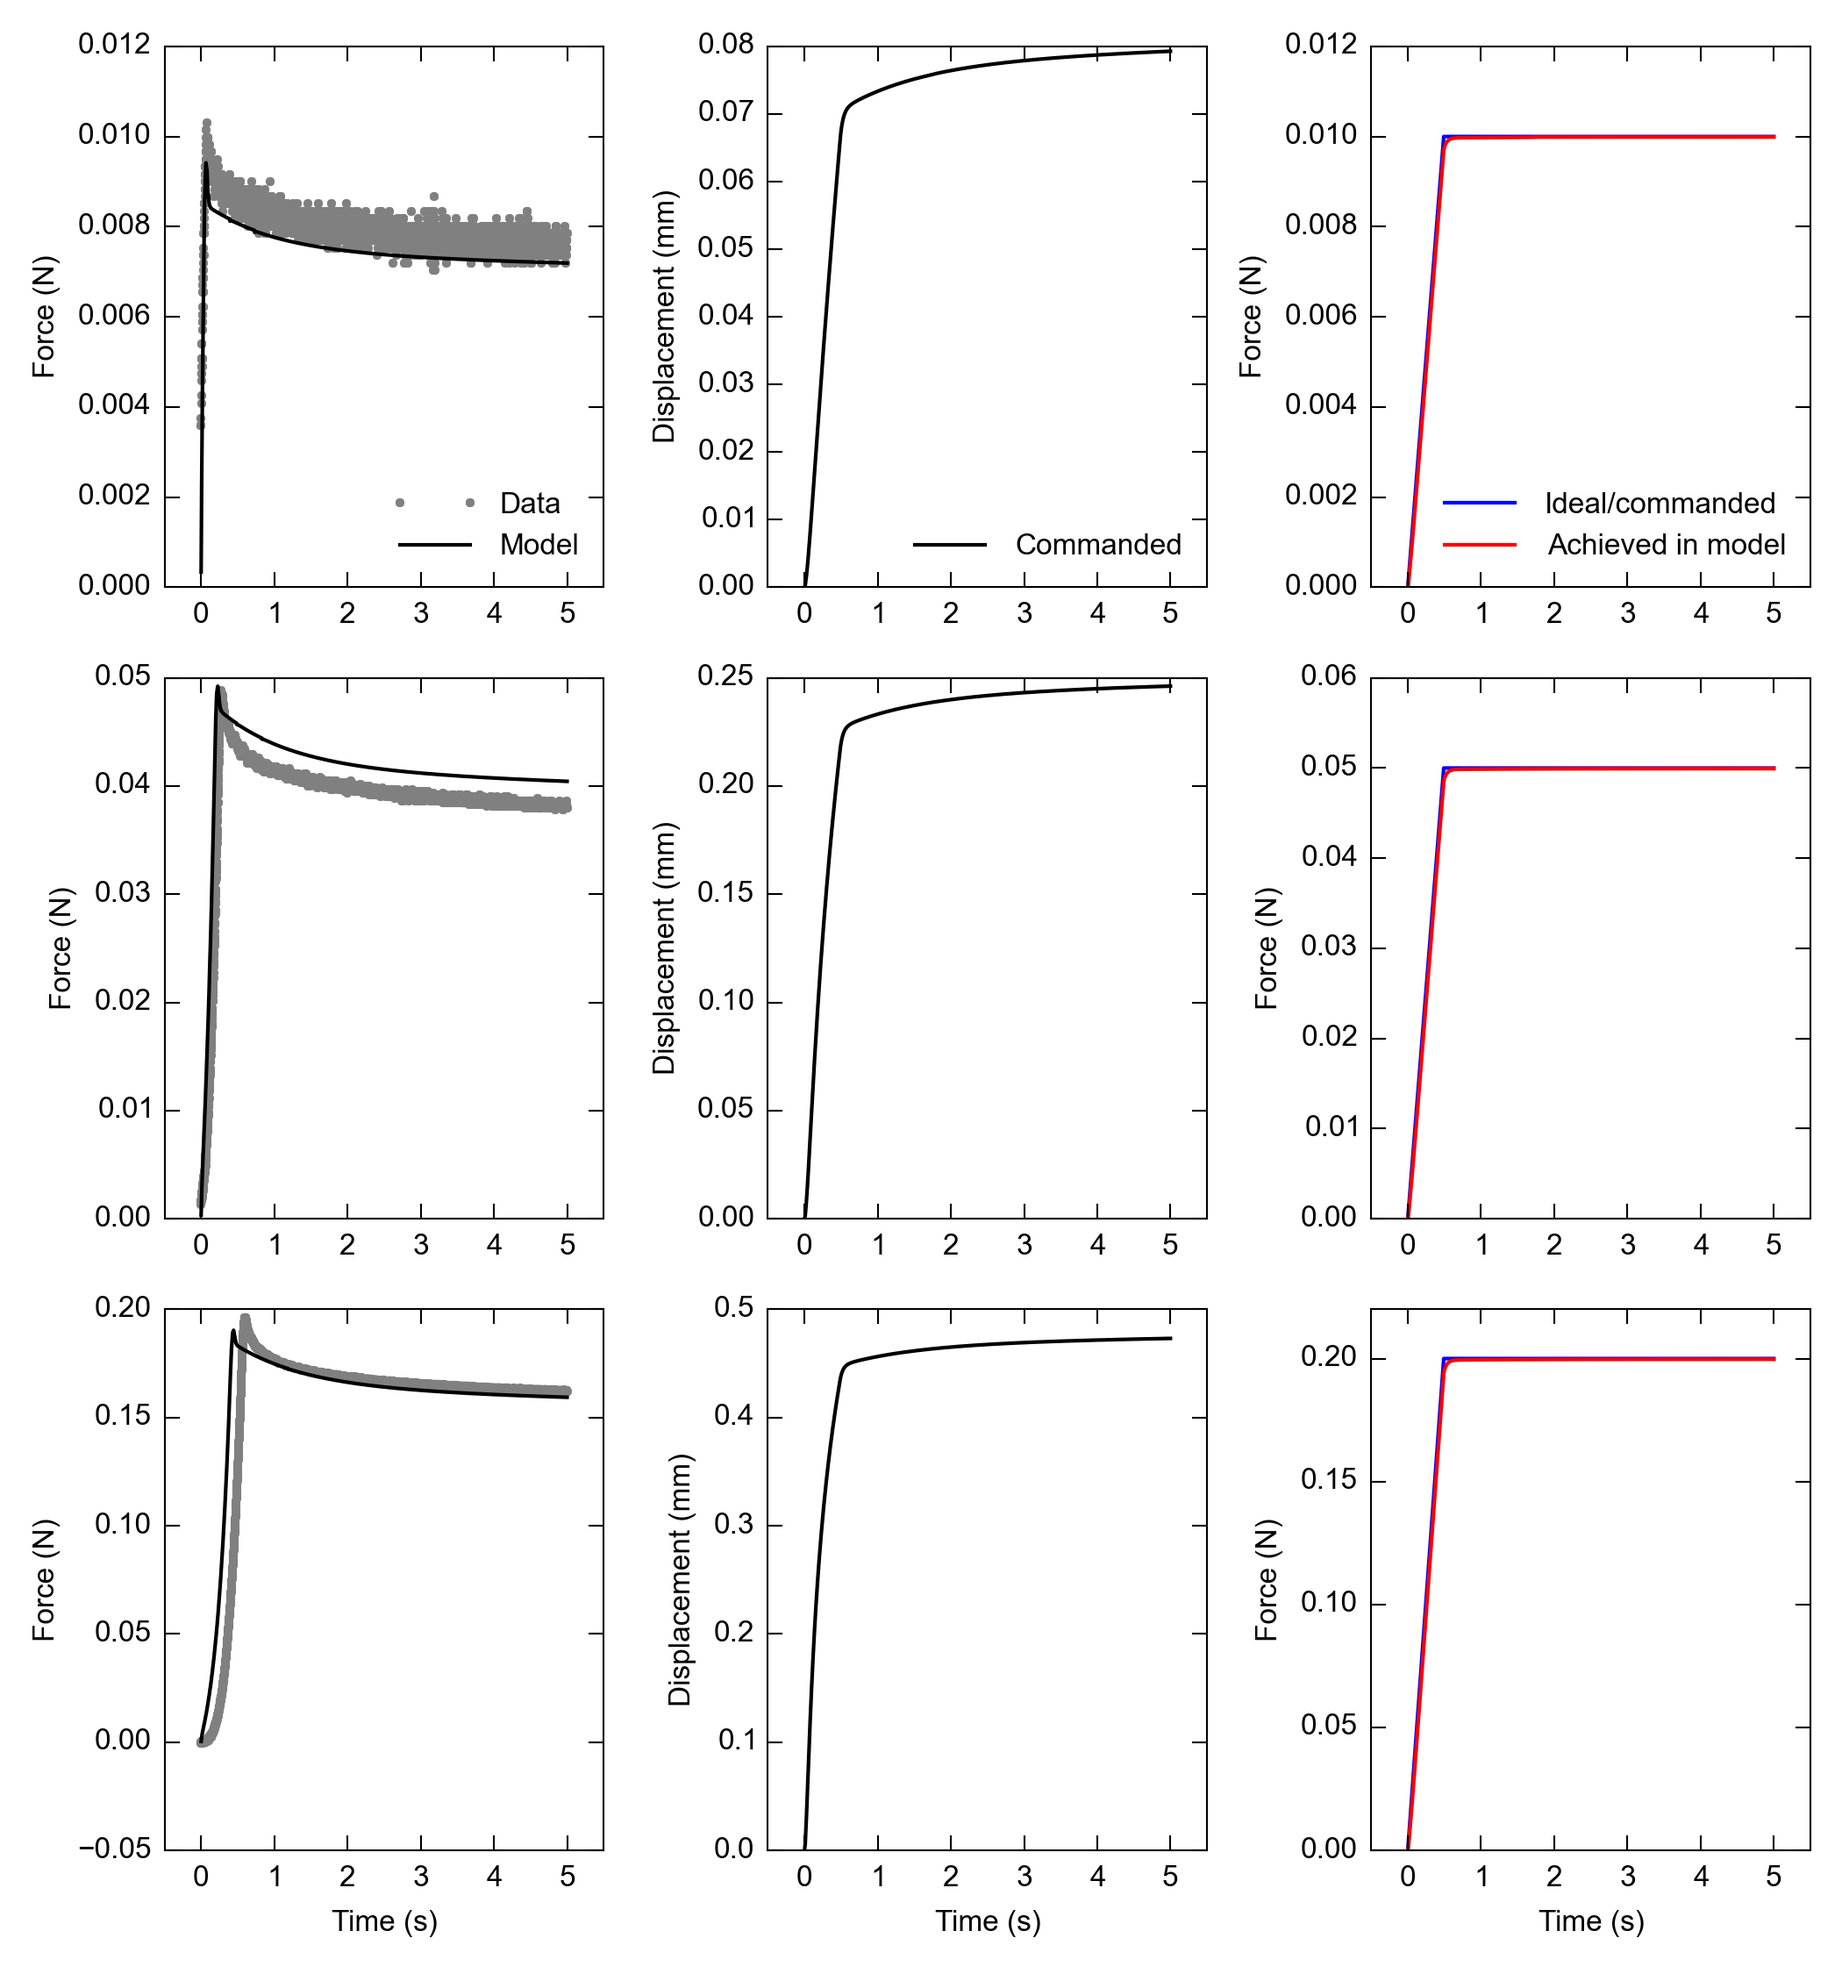
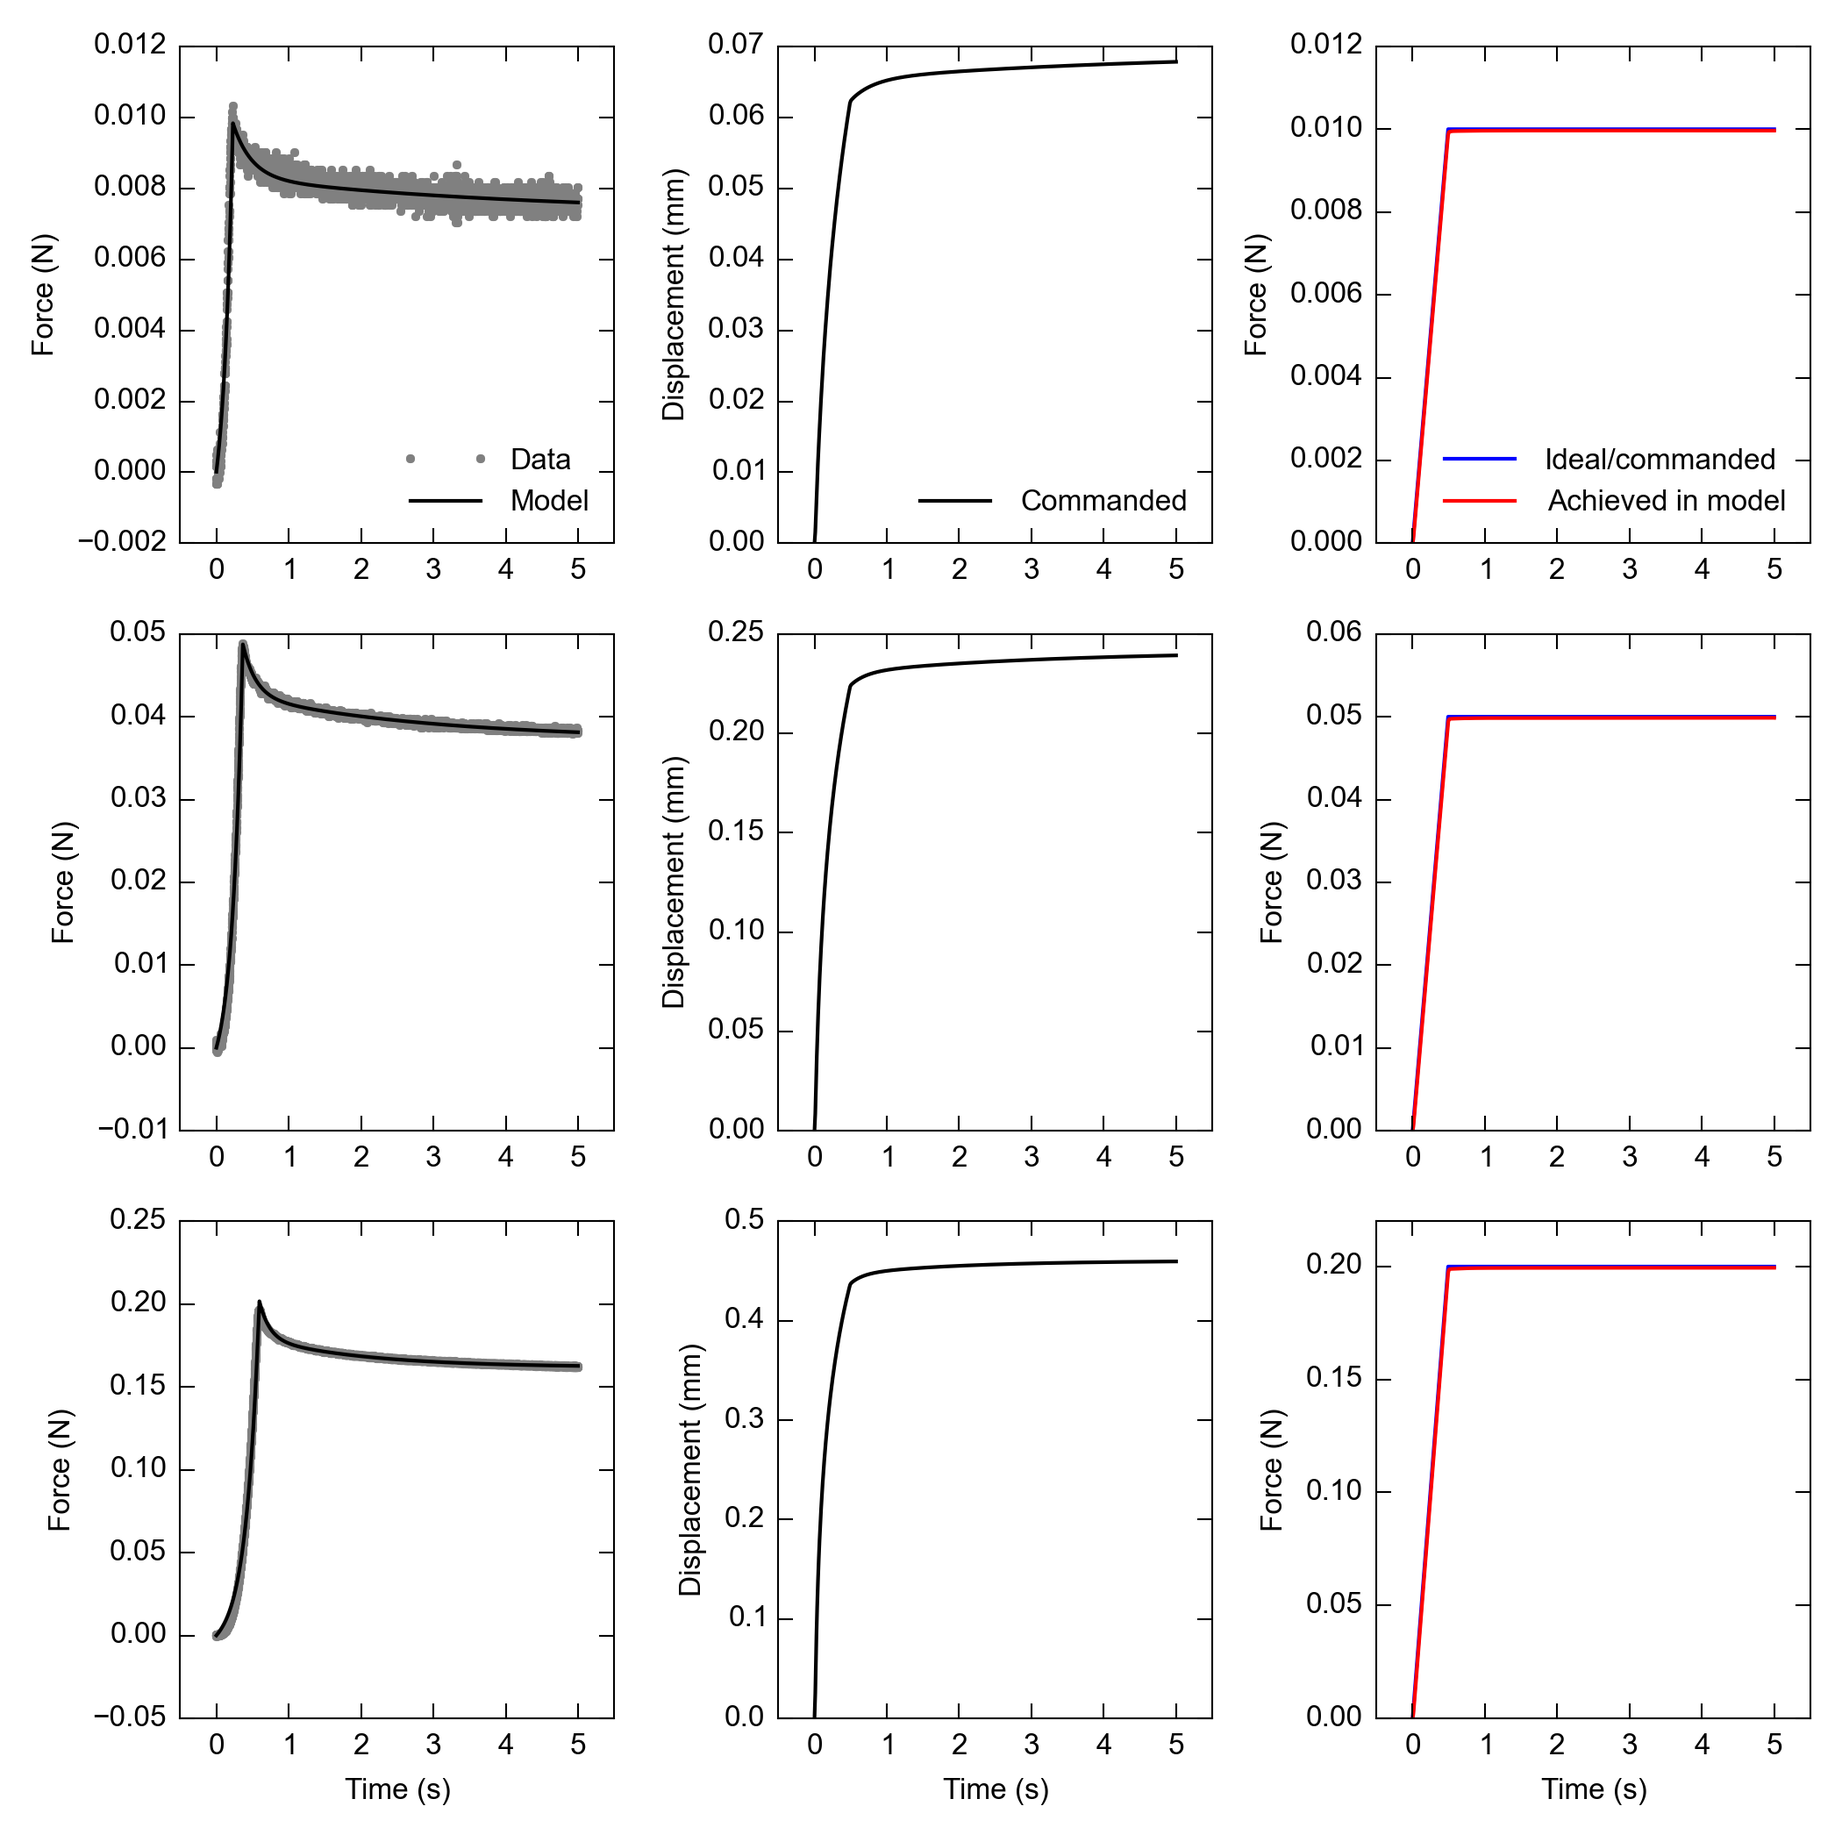
Fit to individual traces

diff --git a/fitprony.py b/fitprony.py
@@ -12,6 +12,8 @@ import matplotlib.pyplot as plt
 
 
 DT = 1E-3
+ND2F = 2
+FT = .002  # contact threshold
 
 
 def displ2force(params, displ):
@@ -34,16 +36,6 @@ def relax(params, time):
     return gr
 
 
-def creep(params, time, cinf):
-    c1, tau1, c2, tau2, c3, tau3 = params
-    cc = 1 + (1 -
-              c1 * np.exp(-time / tau1) -
-              c2 * np.exp(-time / tau2) -
-              c3 * np.exp(-time / tau3)
-              ) * (cinf - 1)
-    return cc
-
-
 def predict_force(params_d2f, params_rel, time, displ):
     force_elastic = displ2force(params_d2f, displ)
     gr = relax(params_rel, time)
@@ -51,38 +43,14 @@ def predict_force(params_d2f, params_rel, time, displ):
     return force
 
 
-def predict_displ(params_d2f, params_crp, time, force, cinf):
-    displ_elastic = force2displ(params_d2f, force)
-    cc = creep(params_crp, time, cinf)
-    displ = np.convolve(cc, np.gradient(displ_elastic) / DT)[:time.size] * DT
-    return displ
-
-
-def get_force_sse(params, time, displ, force):
-    params_d2f = params[:2]
-    params_rel = params[2:]
+def get_force_sse(fitx, time, displ, force, x0):
+    params = fitx * x0
+    params_d2f = params[:ND2F]
+    params_rel = params[ND2F:]
     force_predicted = predict_force(params_d2f, params_rel, time, displ)
-    sse = ((force - force_predicted) ** 2).sum()
+    residual = force - force_predicted
+    sse = ((residual / force.mean()) ** 2).sum()
     return sse
-
-
-def get_force_r2(params, time, displ, force):
-    params_d2f = params[:2]
-    params_rel = params[2:]
-    force_predicted = predict_force(params_d2f, params_rel, time, displ)
-    maxidx = force.argmax()
-    force_ramp = force[:maxidx]
-    force_hold = force[maxidx:]
-    force_predicted_ramp = force_predicted[:maxidx]
-    force_predicted_hold = force_predicted[maxidx:]
-    sst_ramp = ((force_ramp - force_ramp.mean()) ** 2).sum()
-    sse_ramp = ((force_ramp - force_predicted_ramp) ** 2).sum()
-    sst_hold = ((force_hold - force_hold.mean()) ** 2).sum()
-    sse_hold = ((force_hold - force_predicted_hold) ** 2).sum()
-    r2_ramp = 1 - sse_ramp / sst_ramp
-    r2_hold = 1 - sse_hold / sst_hold
-    r2 = np.mean((r2_ramp, r2_hold))
-    return r2
 
 
 if __name__ == '__main__':
@@ -93,34 +61,37 @@ if __name__ == '__main__':
         time = pd.read_csv('./data/%dmN_time.txt' % stimulus).values.T[0]
         displ = pd.read_csv('./data/%dmN_disp.txt' % stimulus).values.T[0]
         force = pd.read_csv('./data/%dmN_force.txt' % stimulus).values.T[0]
-        contact_idx = (displ > 0).nonzero()[0][0]
+        contact_idx = (force > FT).nonzero()[0][0] - 100
         time_list.append(time[contact_idx:contact_idx + 5000]
                          - time[contact_idx])
-        displ_list.append(displ[contact_idx:contact_idx + 5000])
         force_list.append(force[contact_idx:contact_idx + 5000])
+        # Make displacement curve
+        displ_static = displ[contact_idx + 2500]
+        maxidx = force_list[-1].argmax()
+        displ_new = np.empty_like(force_list[-1])
+        displ_new[:maxidx] = np.linspace(0, displ_static, maxidx)
+        displ_new[maxidx:] = displ_static
+        displ_list.append(displ_new)
     # %% Start fitting the force trances
-
-    def get_avg_force_r2(params, sign=1.):
-        r2_list = []
-        for i, displ in enumerate(displ_list):
-            force = force_list[i]
-            time = time_list[i]
-            r2_list.append(get_force_r2(params, time, displ, force))
-        avg_r2 = np.mean(r2_list)
-        return sign * avg_r2
-    bounds = ((0, None), (0, None),
-              (0, 1), (1e-2, None),
-              (0, 1), (1e-2, None),
-              (0, 1), (1e-2, None))
-    constraints = ({'type': 'ineq', 'fun': lambda x: 1 - np.sum(x[2::2])})
-    x0 = (1e-2, 5, .3, .1, .3, 1, .3, 10)
-    res = minimize(get_avg_force_r2, x0, args=(-1), method='SLSQP',
-                   bounds=bounds, constraints=constraints)
-    params = res.x
-    avg_r2 = -res.fun
-    params_rel = params[2:]
-    params_d2f = params[:2]
-    ginf = 1 - np.sum(params_rel[::2])
+    params_list, params_d2f_list, params_rel_list = [], [], []
+    for i, stimulus in enumerate(stimuli_list):
+        force = force_list[i]
+        displ = displ_list[i]
+        time = time_list[i]
+        bounds = ((0, None), (0, None),
+                  (0, 1), (DT, None),
+                  (0, 1), (DT, None),
+                  (0, 1), (DT, None))
+        constraints = ({'type': 'ineq',
+                        'fun': lambda x: 1 - np.sum(x[ND2F::2])})
+        x0 = np.array([.01, 7, .3, .001, .3, .5, .3, 10])
+        res = minimize(get_force_sse, np.ones(8),
+                       args=(time, displ, force, x0),
+                       method='SLSQP', bounds=bounds, constraints=constraints)
+        params = res.x * x0
+        params_list.append(params)
+        params_rel_list.append(params[ND2F:])
+        params_d2f_list.append(params[:ND2F])
     # %% Find point by point
     resolution = 1e-2
     ramp_time = .5
@@ -129,6 +100,8 @@ if __name__ == '__main__':
     time = np.arange(500) * resolution
     fine_time = np.arange(5000) * DT
     for i, stimulus in enumerate(stimuli_list):
+        params_d2f = params_d2f_list[i]
+        params_rel = params_rel_list[i]
         force_cmd = np.empty_like(time)
         force_cmd[:maxidx] = np.linspace(0, stimulus * 1e-3, maxidx)
         force_cmd[maxidx:] = stimulus * 1e-3
@@ -145,19 +118,22 @@ if __name__ == '__main__':
                 sse = ((current_force - predicted_force) ** 2).sum()
                 return sse
             d0 = force2displ(params_d2f, stimulus * 1e-3)
-            d = minimize(get_current_sse, d0, method='L-BFGS-B').x
+            d = minimize(get_current_sse, d0, method='L-BFGS-B',
+                         bounds=((0, None), )).x
             displ[idx + 1] = d
         displ_cmd_list.append(np.interp(fine_time, time, displ))
         force_cmd_list.append(np.interp(fine_time, time, force_cmd))
         force_model_list.append(predict_force(params_d2f, params_rel,
                                               fine_time, displ_cmd_list[-1]))
     # %% Plot the fitting
-    fig, axs = plt.subplots(3, 3, figsize=(7, 7.5))
+    fig, axs = plt.subplots(3, 3, figsize=(7, 7))
     for i, displ in enumerate(displ_list):
         # First column, fitting
         force = force_list[i]
         time = time_list[i]
-        force_predicted = predict_force(params[:2], params[2:], time, displ)
+        params_d2f = params_d2f_list[i]
+        params_rel = params_rel_list[i]
+        force_predicted = predict_force(params_d2f, params_rel, time, displ)
         axs[i, 0].plot(time, force, '.', color='.5', label='Data')
         axs[i, 0].plot(time, force_predicted, '-k', label='Model')
         # Second column, commanded displ
